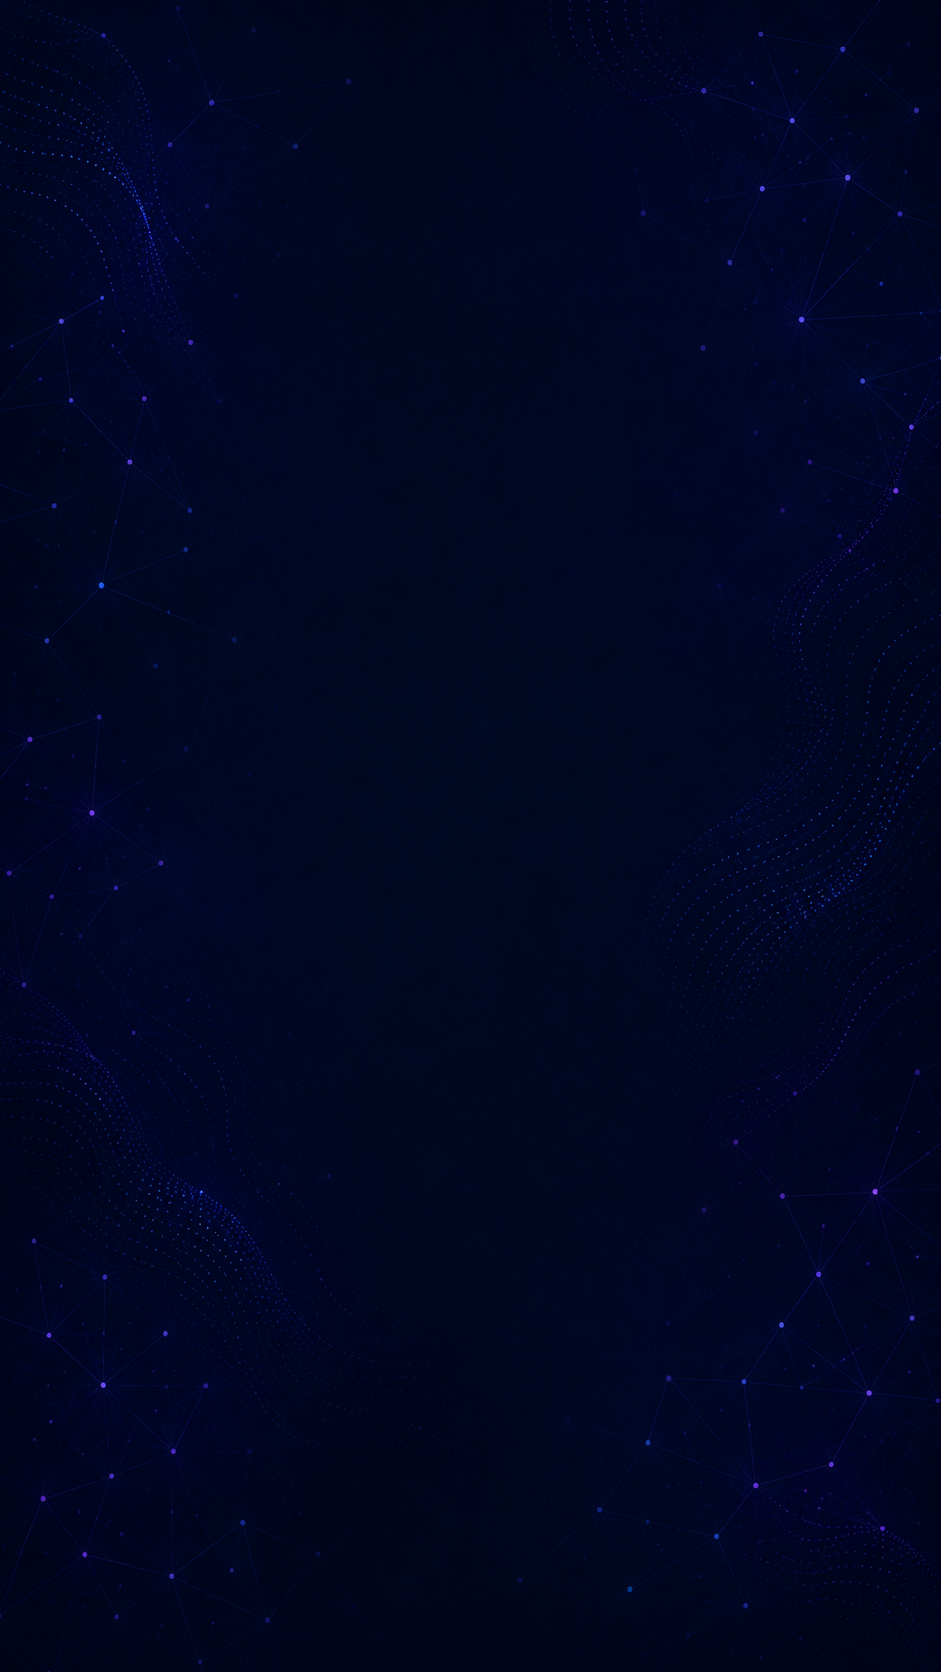
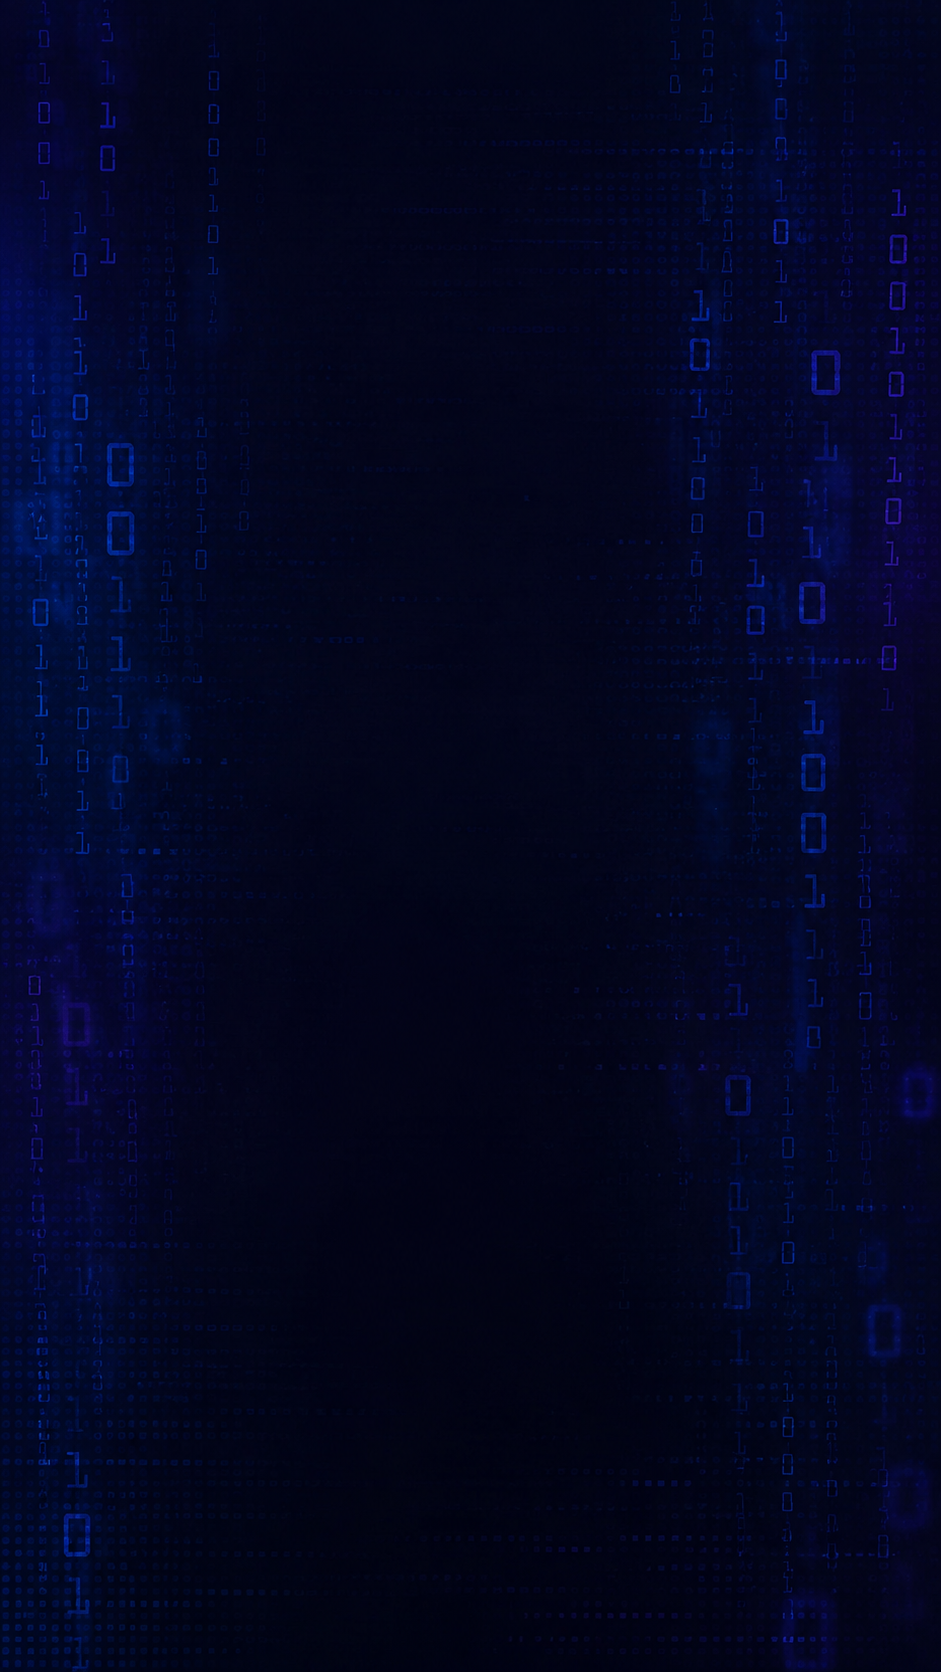
update dark wallpaper and full-page coverage

diff --git a/src/index.css b/src/index.css
@@ -963,7 +963,7 @@ html.light-theme .technical-compliance-list li::marker {
 .scanner-wallpaper {
   background-color: #000411 !important;
   background-image: url('/assets/home_wallpaper_dark.webp');
-  background-size: 100% auto;
+  background-size: cover;
   background-position: center top;
   background-repeat: no-repeat;
   background-attachment: scroll;
